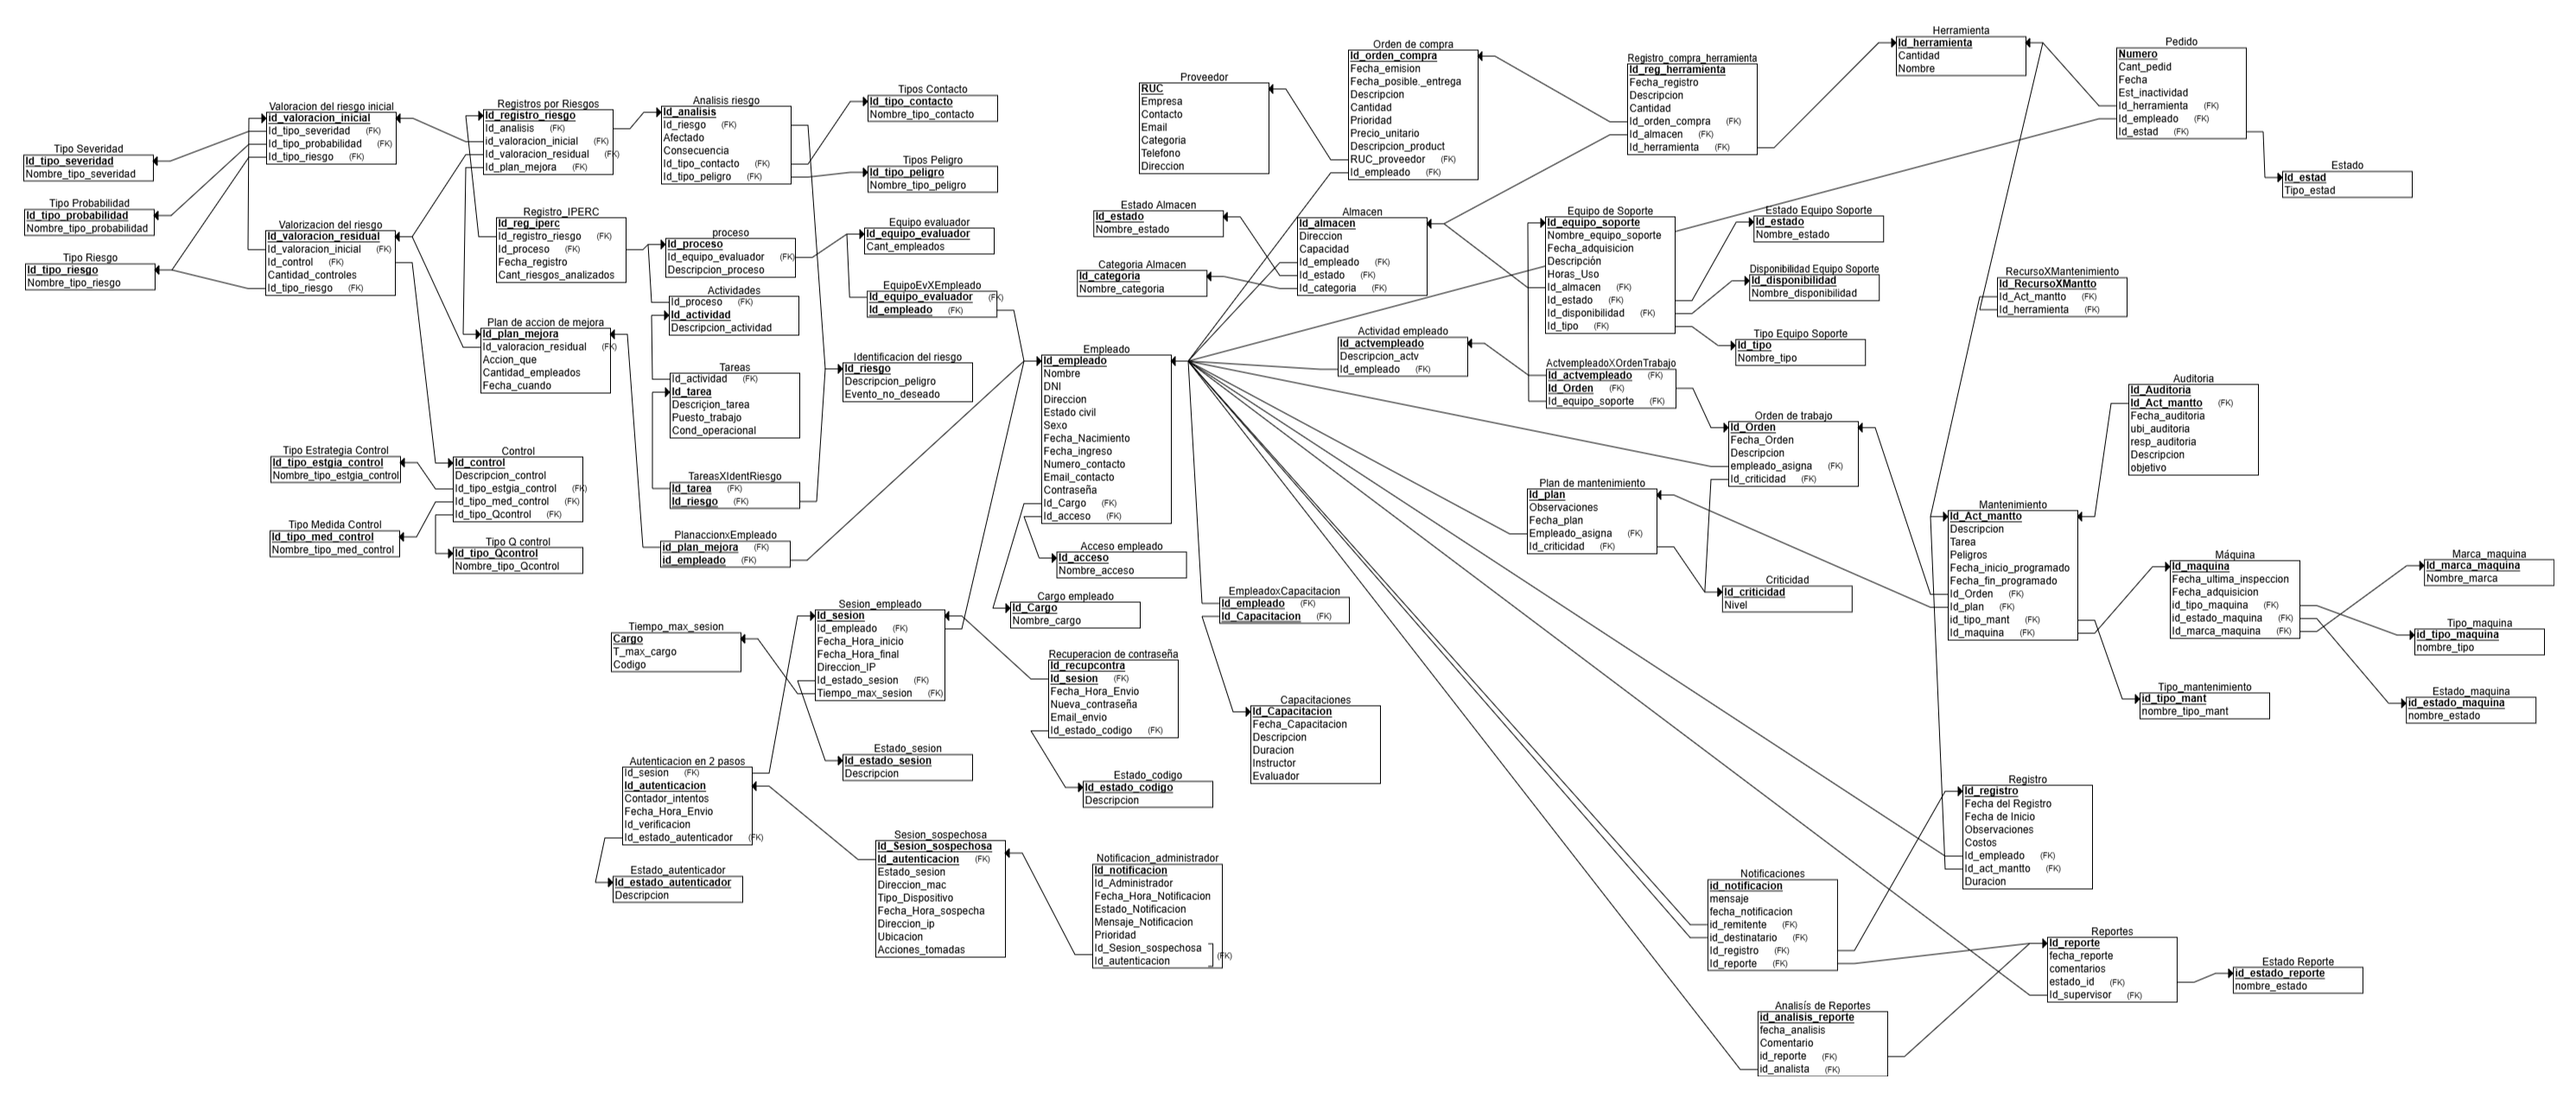
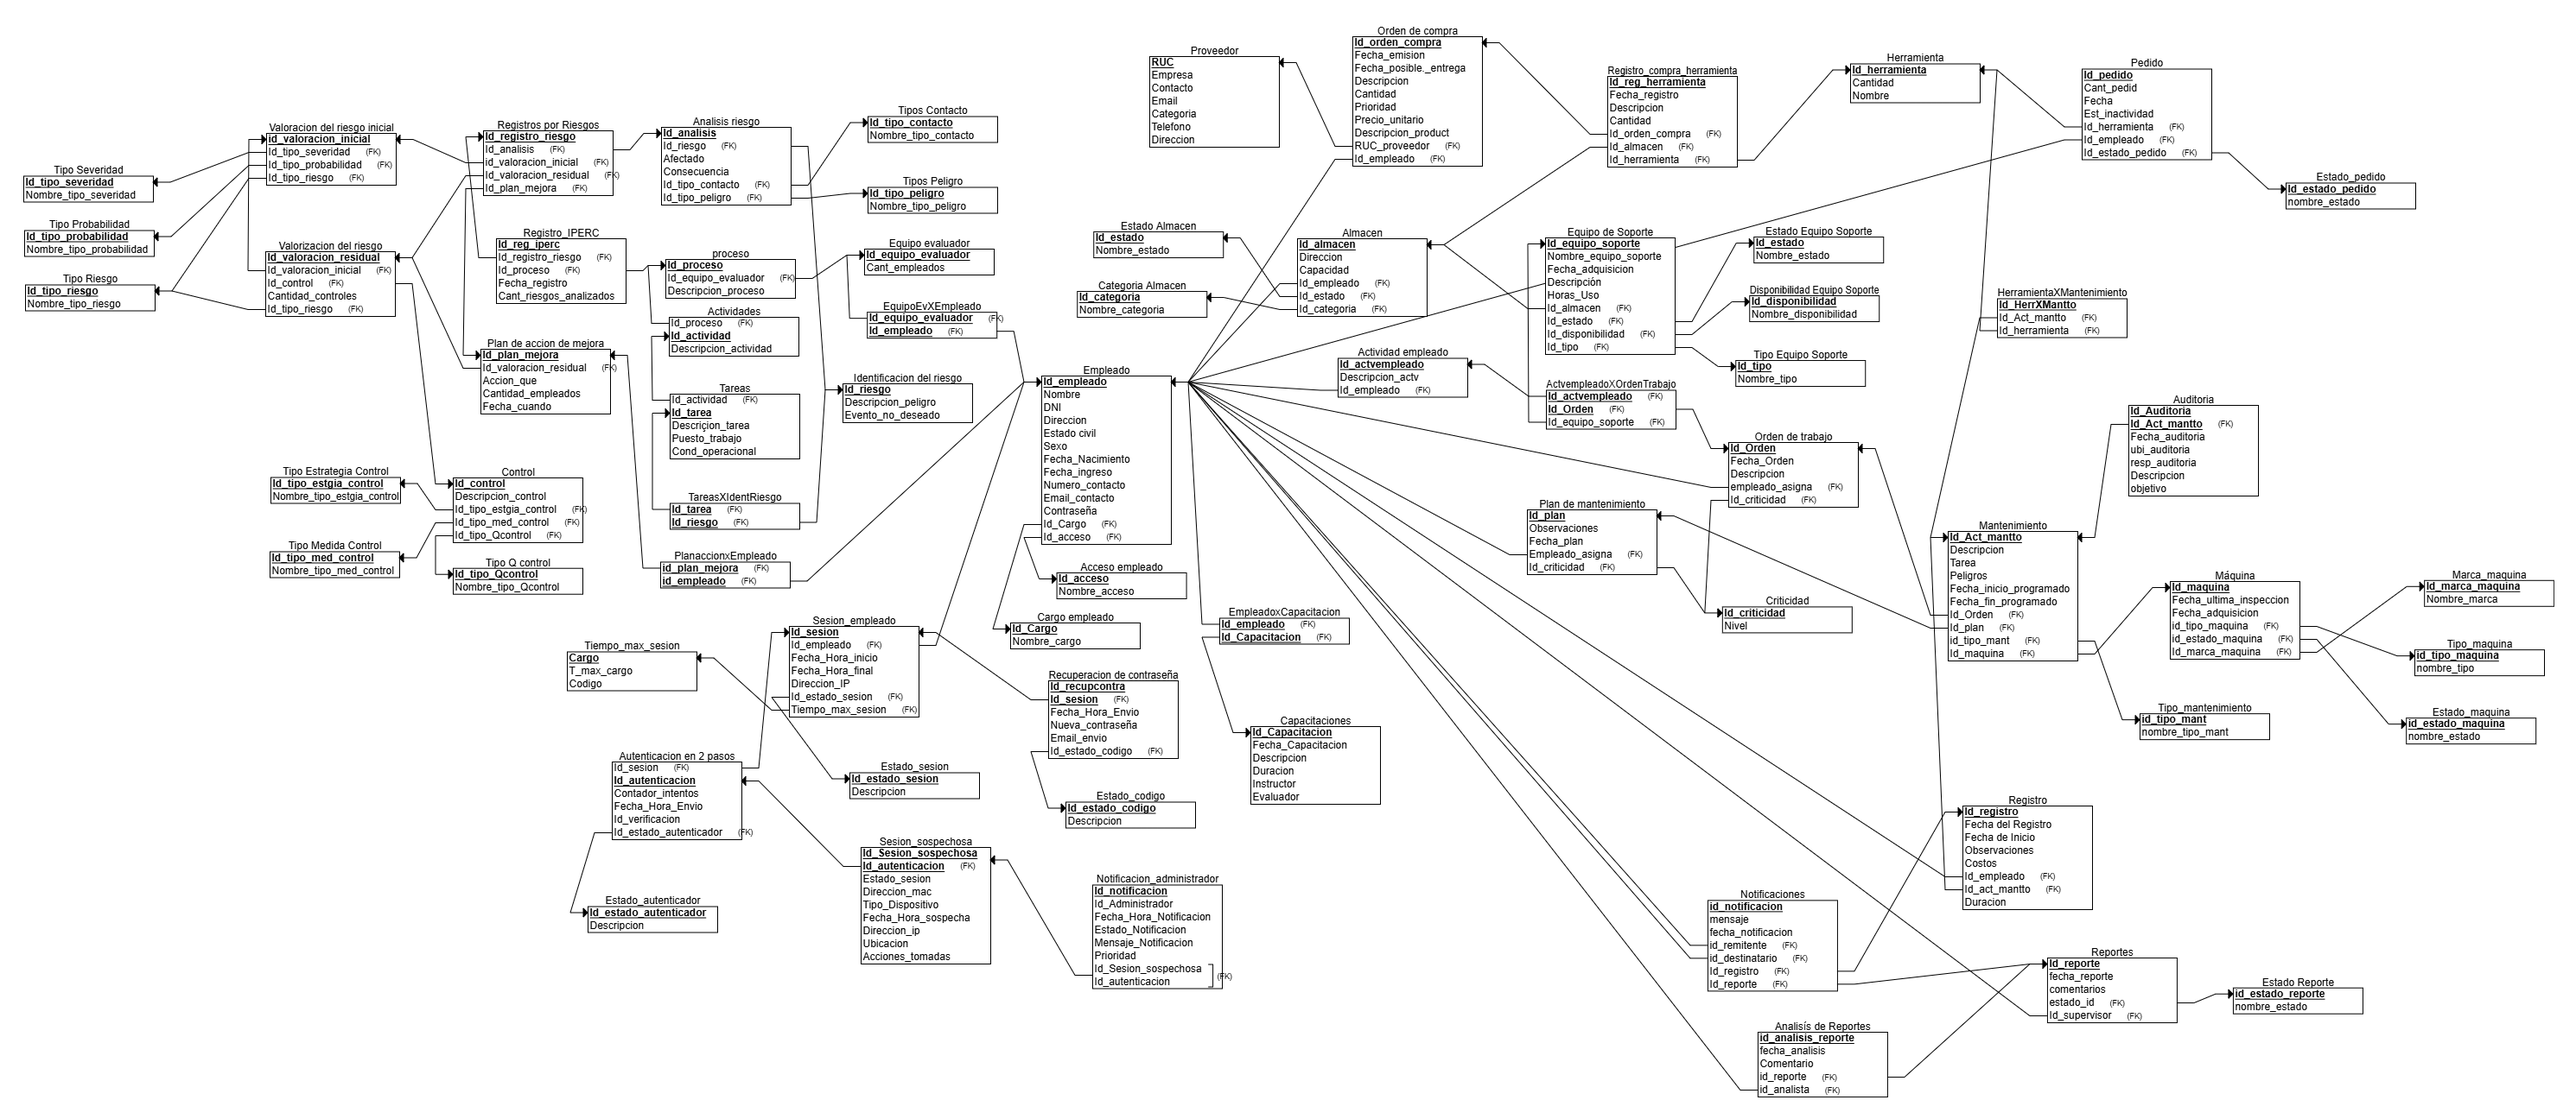
error

diff --git a/6/6.2/6.2.md b/6/6.2/6.2.md
@@ -176,7 +176,7 @@ Semántica: Registro de compra de equipos y repuestos para las actividades de ma
 
 | Atributo   | Naturaleza (tipo de valor) | Formato        | Valores válidos                      | Unidad | Derivada de | Semántica (descripción)                          | Ontología (rol en el negocio)                       |
 |------------|----------------------------|----------------|--------------------------------------|--------|-------------|--------------------------------------------------|----------------------------------------------------|
-| **Id_reg_recurso**| INT                      | ---         | no nulo                            | ----   | ----        | Código asociado a la compra de un recurso               | Identificador de un registro de compra recurso comprado al proveedor       |
+| **Id_reg_herramienta**| INT                      | ---         | no nulo                            | ----   | ----        | Código asociado a la compra de un recurso               | Identificador de un registro de compra recurso comprado al proveedor       |
 | **Id_orden_compra**| INT                      | ---         | No nulo                           | ----   | ----        | Código asociado a la orden de compra               | Identificador de una orden de compra registrada en el sistema       |
 | **Id_almacen**| INT                      | ---         | No nulo                            | ----   | ----        | Código asociado a un almacén              | Identificador de un almacén     |
 | **Id_herramienta**| INT                      | ---         | No nulo                            | ----   | ----        | Código asociado a un recurso disponible para mantenimiento             | Identificador de un recurso disponnible para mantenimiento    |
@@ -207,7 +207,7 @@ Semántica: Todos los pedidos generados que solicitan determinada cantidad de re
 
 | Atributo   | Naturaleza (tipo de valor) | Formato        | Valores válidos                      | Unidad | Derivada de | Semántica (descripción)                          | Ontología (rol en el negocio)                       |
 |------------|----------------------------|----------------|--------------------------------------|--------|-------------|--------------------------------------------------|----------------------------------------------------|
-| **Numero**| INT                      | ---         | No nulo                            | ----   | ----        | Número asociado al registro de un pedido de recurso para determinado mantenimiento               | Permite identificar a un pedido       |
+| **Id_pedido**| INT                      | ---         | No nulo                            | ----   | ----        | Número asociado al registro de un pedido de recurso para determinado mantenimiento               | Permite identificar a un pedido       |
 | **Cant_pedid**    | INT                     | ---    | >=0                    | ----   | ----        |Cantidad de recursos solicitados        | Cantidad solicitada en el pedido      |
 | **Fecha**| DATE                      | AAAA/MM/DD          | De acuerdo con calendario                       | ----   | ----        | Fecha en la que fue registrado el pedido | Almacena la fecha que el recurso fue solicitado |
 | **Hora**| TIME                      | HH:MM:SS         | No nulo                    | ----   | ----        | Hora en la que fue registrado el pedido | Almacena la hora que el recurso fue solicitado |
